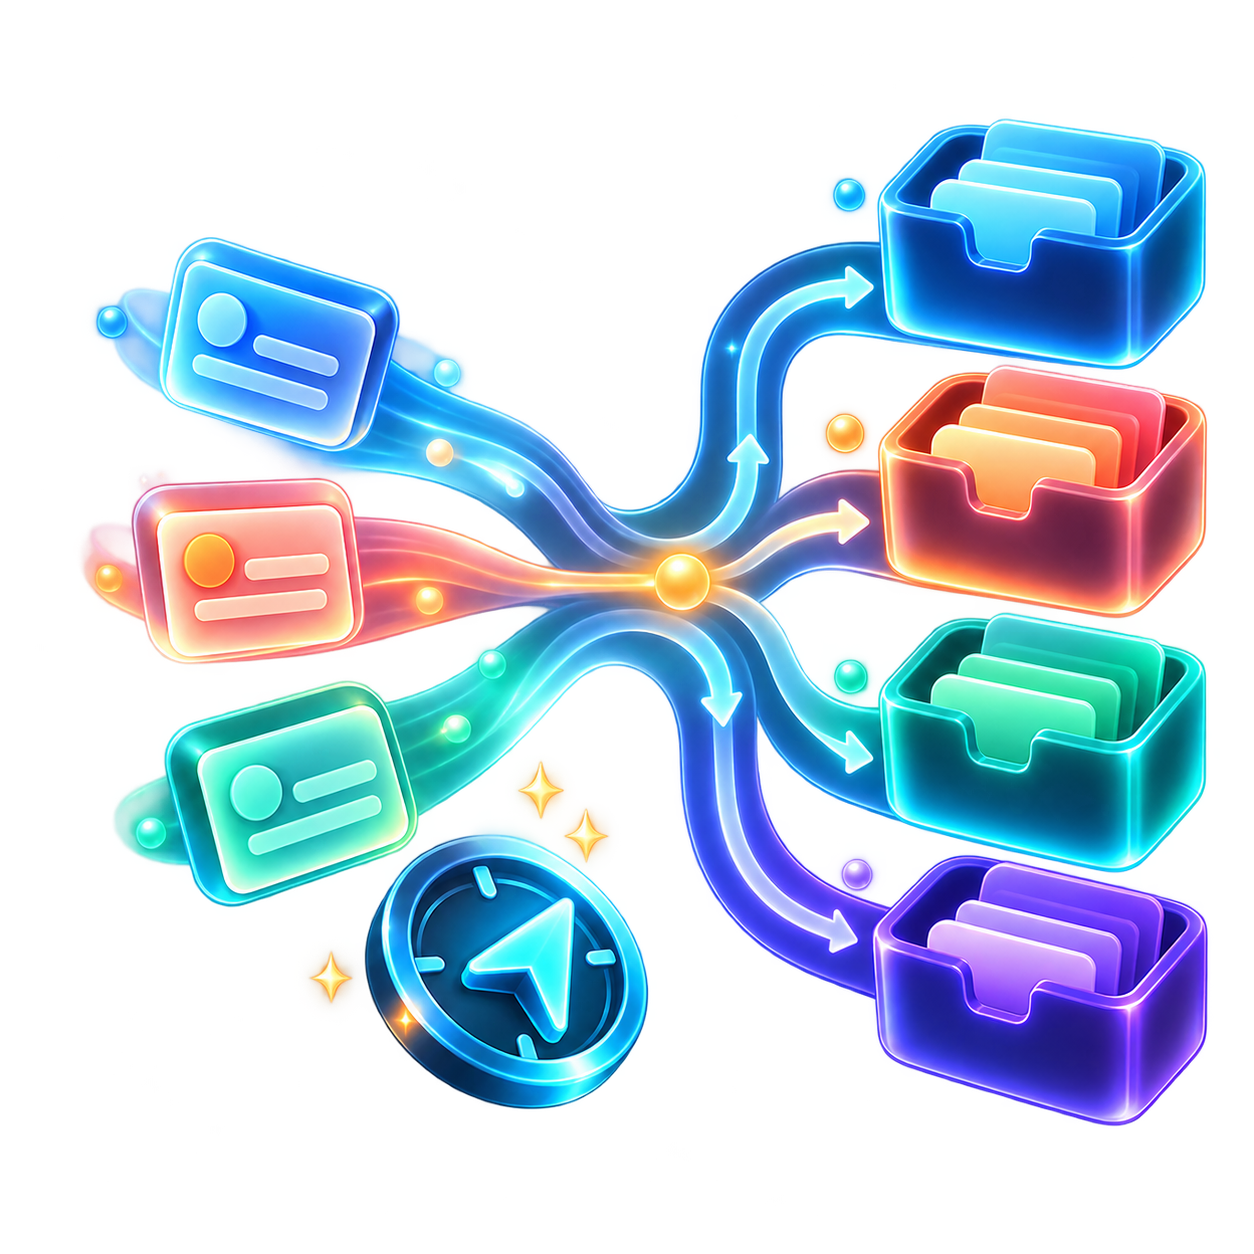
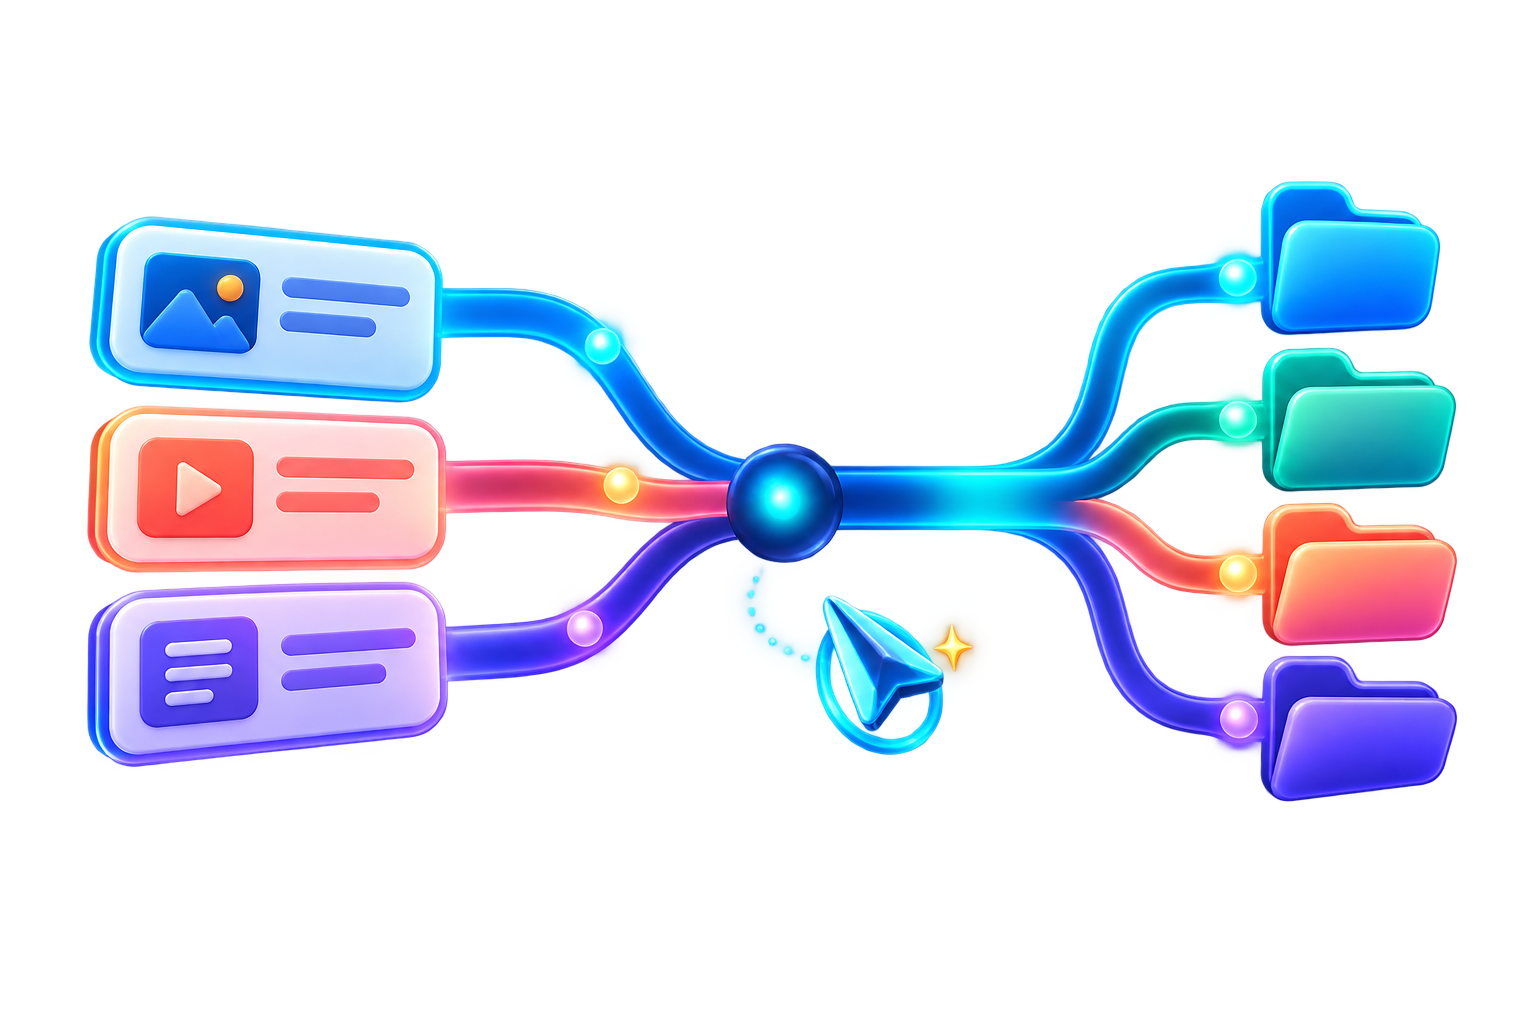
Align IA portal illustration with card baseline

diff --git a/index.html b/index.html
@@ -39,7 +39,7 @@
     .menu a:hover { transform:translateY(-4px); box-shadow:0 12px 28px #8c6fa722; }
     .number { display:block; margin-bottom:.45rem; color:var(--green); font:800 .8rem Poppins,sans-serif; letter-spacing:.12em; }
     .card-illustration { display:grid; place-items:center; height:108px; margin:0 0 .7rem; }
-    .card-illustration img { display:block; width:100%; height:100%; object-fit:contain; }
+    .card-illustration img { display:block; width:100%; height:100%; object-fit:contain; object-position:center top; }
     .title { display:block; position:relative; z-index:1; font-size:1.35rem; font-weight:800; }
     .description { display:block; position:relative; z-index:1; margin-top:.5rem; font-size:.92rem; line-height:1.7; }
     .arrow { display:block; margin-top:auto; padding-top:1.2rem; color:var(--green); font-weight:800; }

diff --git a/.codex/skills/portal-card-order/SKILL.md b/.codex/skills/portal-card-order/SKILL.md
@@ -11,6 +11,12 @@ Use this skill when the order of guide cards in this workspace's root `index.htm
 
 The order of `<nav class="menu">` cards in the root `index.html` is the only source of truth. Keep each card's destination, illustration, title, and description together while moving it.
 
+## Card illustration baseline
+
+The five established portal illustrations are all 1536×1024, an average **3:2 (1.5)** aspect ratio. New portal-card illustrations should use this landscape ratio, preferably with a transparent background and a vertically compact subject. This lets the illustration overlap the title area without reaching the description.
+
+Use `.card-illustration img` with `object-position:center top`; do not compensate for an unsuitable square image by pushing it down into the copy.
+
 ## Required synchronization
 
 After reordering, update all of the following in the same change:
